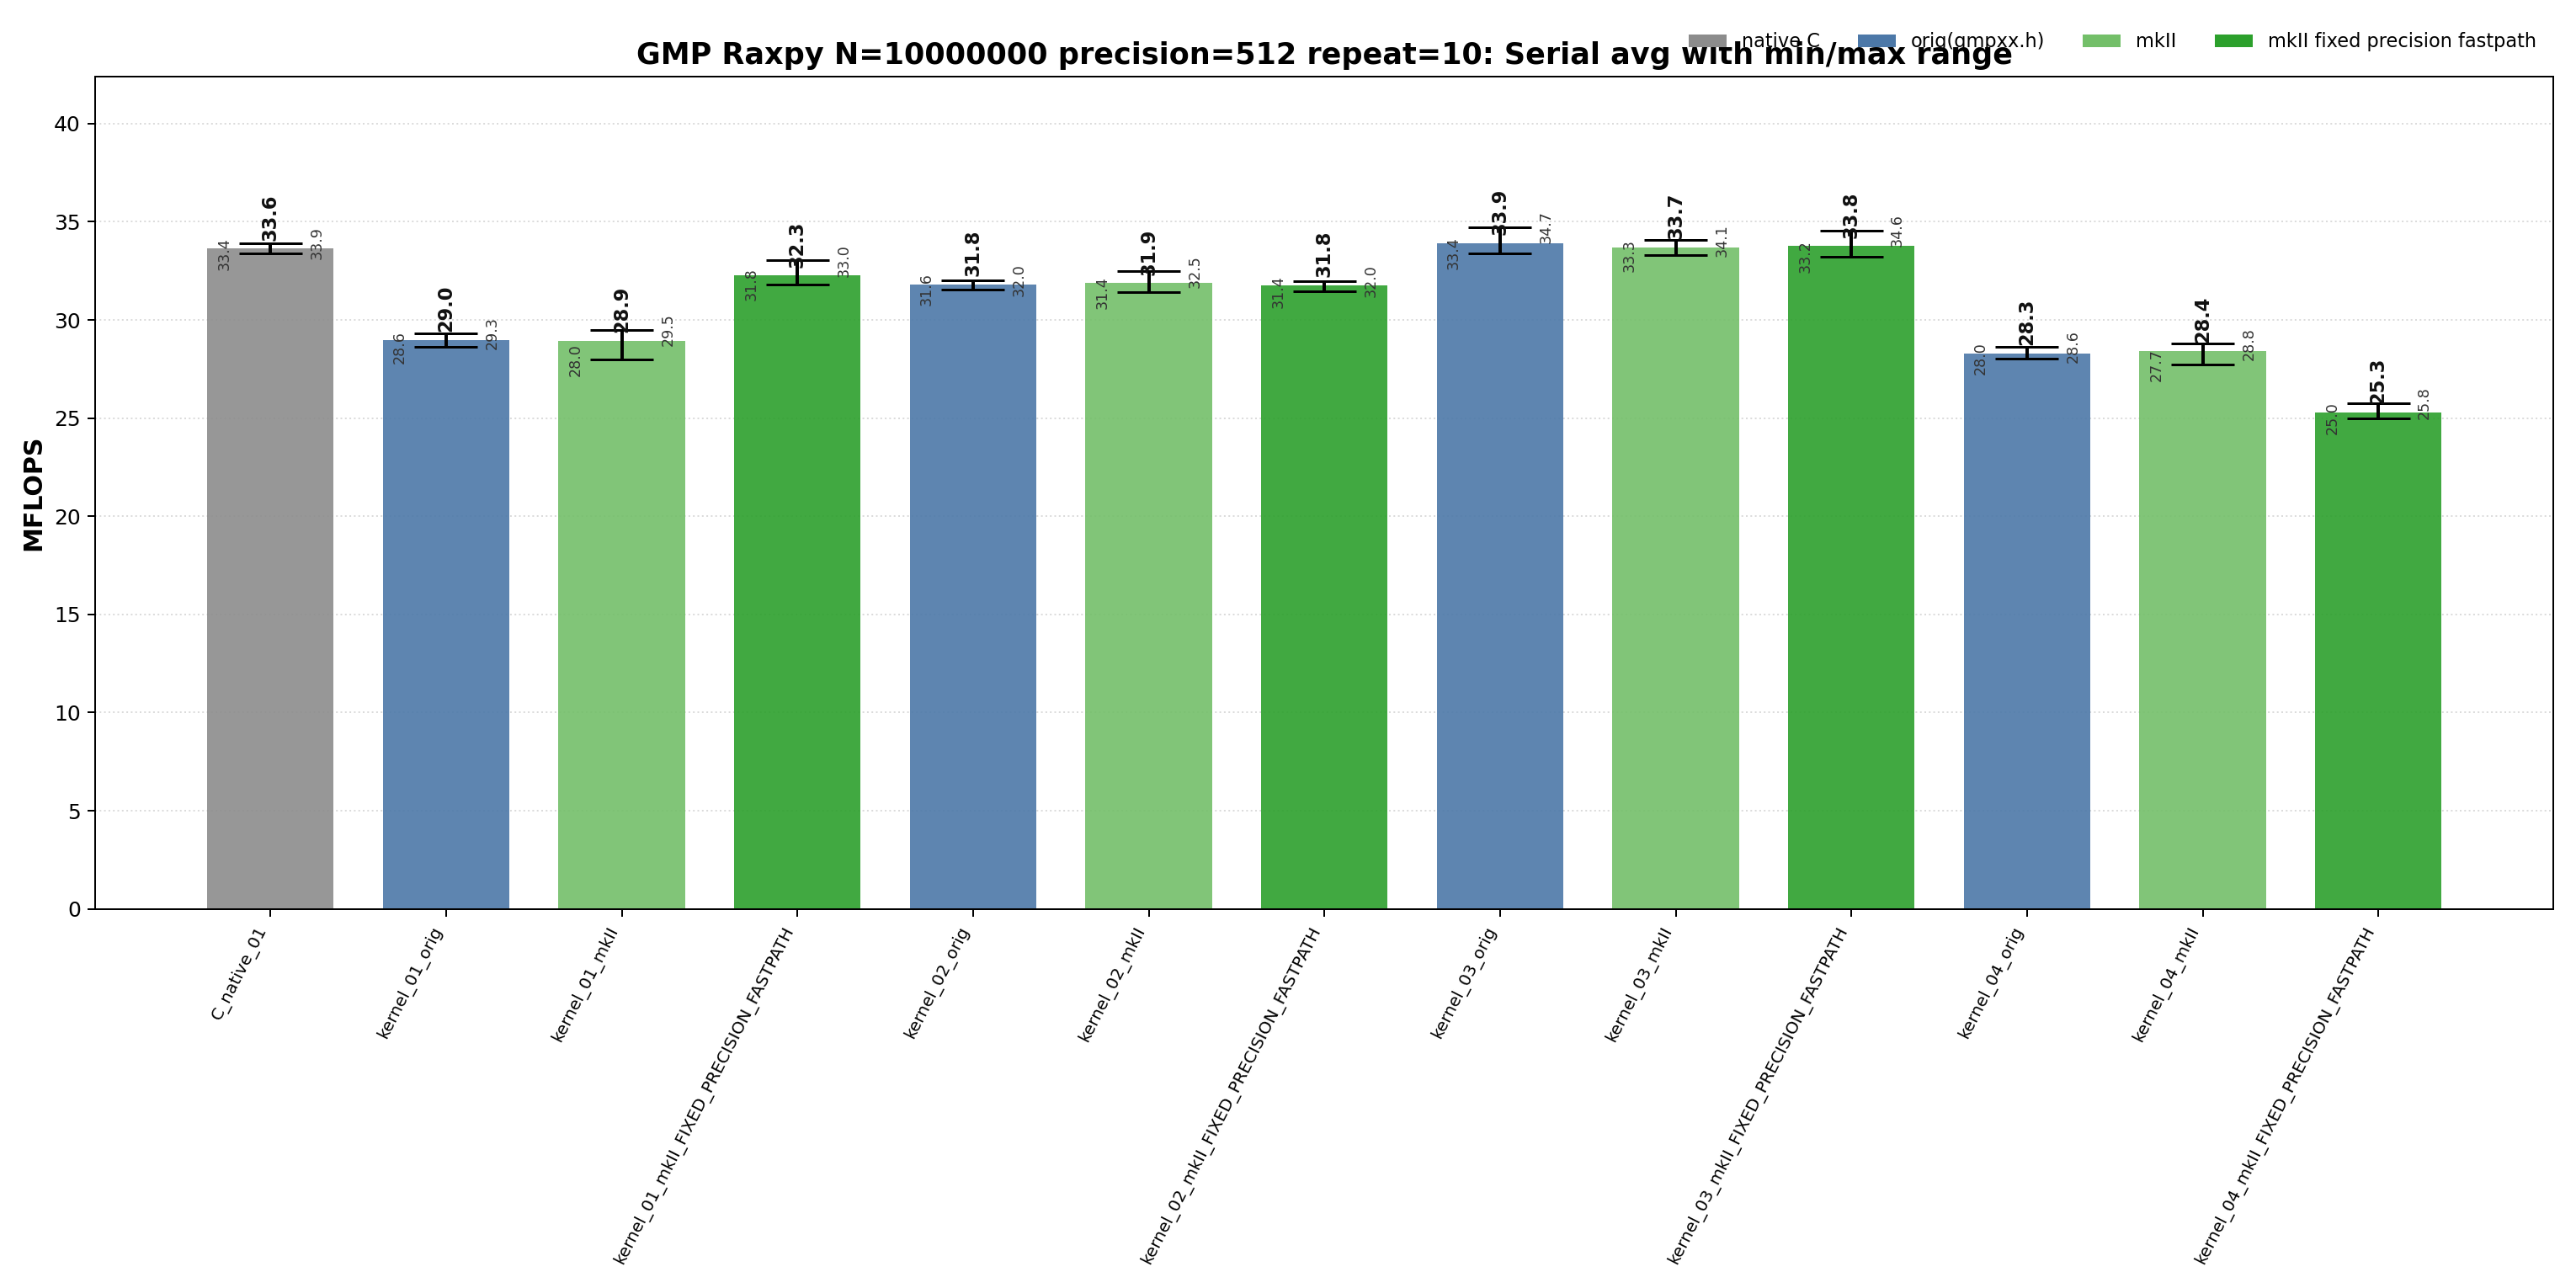
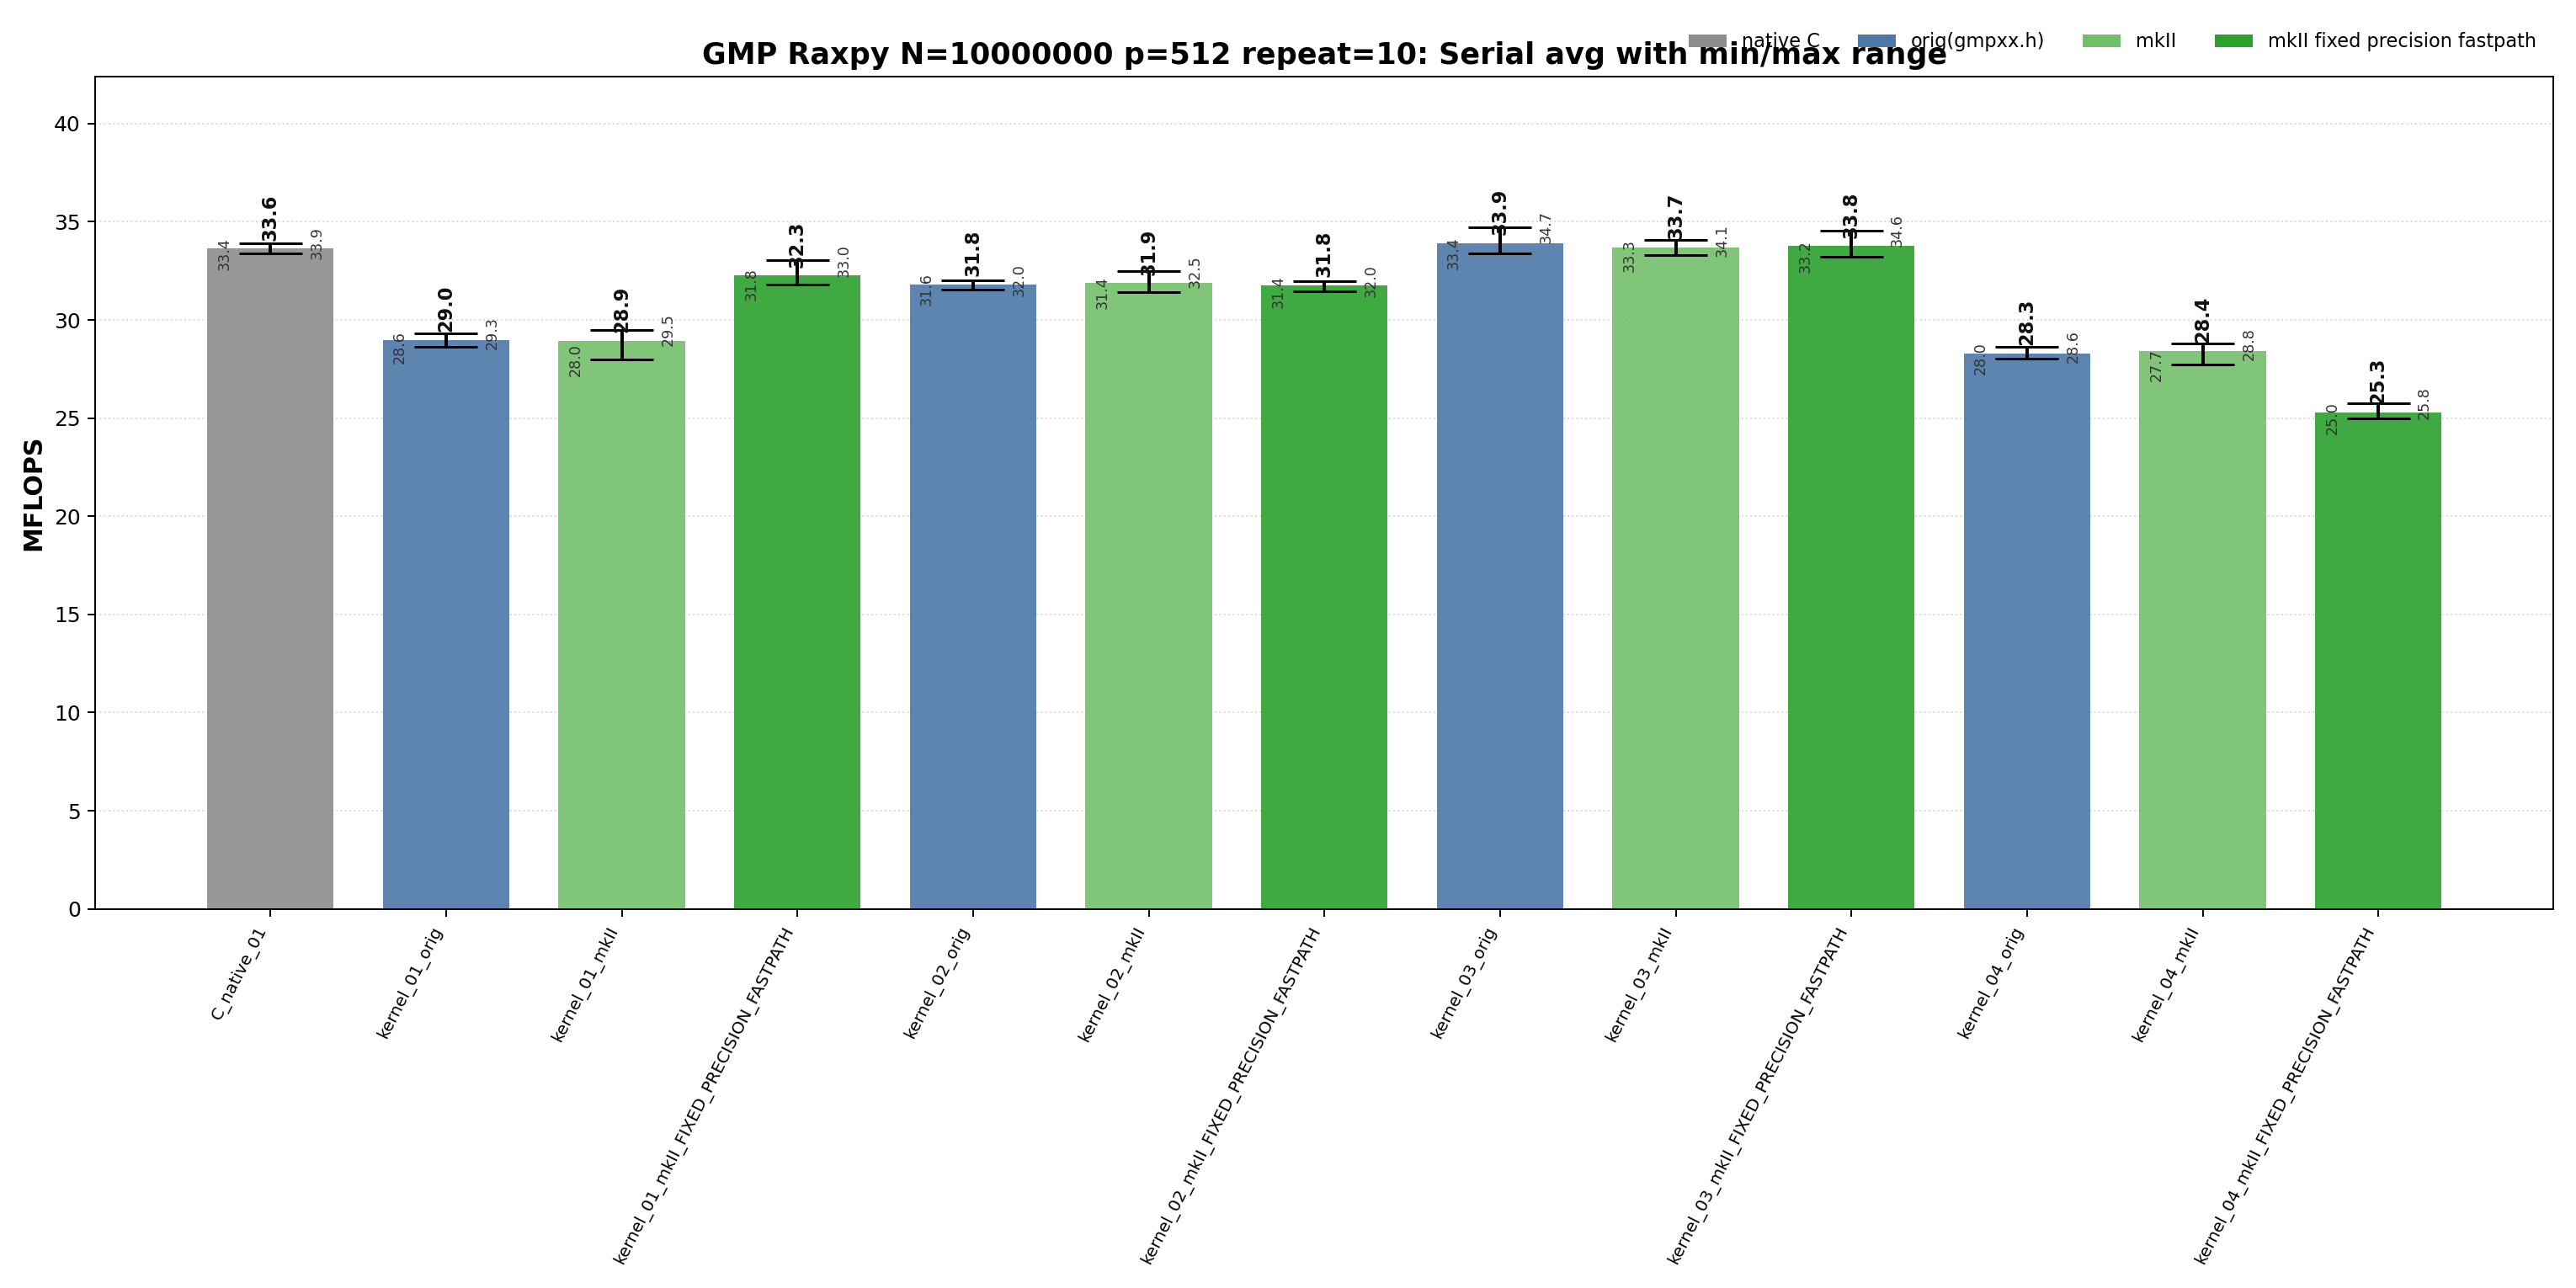
benchmarks: align GMP Raxpy run report
Rewrite the GMP Raxpy Recorded Run section to match the MPFR Raxpy report style with a compact run summary, raw-data links, plot descriptions, and the regeneration command.

Reshape the GMP Raxpy memory-bandwidth estimate section to use the MPFR-style assumptions block and representative-variant table. Regenerate the GMP Raxpy serial and OpenMP plots with the updated title prefix from the documented command.

Record the documentation-only phase in STATUS.md. The benchmark timings were not recollected.

Changed region(s): [[0.2484, 0.0307, 0.7761, 0.0614]]

diff --git a/benchmarks/gmp/01_Raxpy/README.md b/benchmarks/gmp/01_Raxpy/README.md
@@ -67,35 +67,40 @@ OMP_NUM_THREADS=32 OMP_PLACES=cores OMP_PROC_BIND=spread \
 
 ## Recorded Run
 
-| Field | Value |
-|-------|-------|
-| Run ID | `raxpy_gmp_n10000000_p512_repeat10_20260522_214039` |
-| Problem size | `N=10000000` |
-| Precision | `512` bits |
-| Repeat count | `10` |
-| Compiler | `g++ (Ubuntu 15.2.0-16ubuntu1) 15.2.0` |
-| Build type | `Release` |
-| CPU | `AMD Ryzen Threadripper 3970X 32-Core Processor` |
-| OS | `Linux 7c430536ccee 6.8.0-94-generic x86_64` |
-| OpenMP | `OMP_NUM_THREADS=32`, `OMP_PLACES=cores`, `OMP_PROC_BIND=spread` |
-| Raw directory | `benchmarks/gmp/01_Raxpy/results_raw/raxpy_gmp_n10000000_p512_repeat10_20260522_214039` |
-| Raw log | `benchmarks/gmp/01_Raxpy/results_raw/raxpy_gmp_n10000000_p512_repeat10_20260522_214039/benchmark_raxpy_gmp_n10000000_p512_repeat10.log` |
-| Raw CSV | `benchmarks/gmp/01_Raxpy/results_raw/raxpy_gmp_n10000000_p512_repeat10_20260522_214039/raw_raxpy_gmp_n10000000_p512_repeat10.csv` |
-| Summary CSV | `benchmarks/gmp/01_Raxpy/results_raw/raxpy_gmp_n10000000_p512_repeat10_20260522_214039/summary_raxpy_gmp_n10000000_p512_repeat10.csv` |
-| Correctness | All variants reported `Result OK` for all repeats. |
+```text
+N = 10000000
+precision = 512 bits
+repeat = 10
+compiler = g++ (Ubuntu 15.2.0-16ubuntu1) 15.2.0
+build type = Release
+CPU = AMD Ryzen Threadripper 3970X 32-Core Processor
+OS = Linux 6.8.0-94-generic x86_64
+OMP_NUM_THREADS = 32
+OMP_PLACES = cores
+OMP_PROC_BIND = spread
+all timed runs = Result OK
+```
 
-Plot regeneration:
+Raw data:
+
+- [Raw log](results_raw/raxpy_gmp_n10000000_p512_repeat10_20260522_214039/benchmark_raxpy_gmp_n10000000_p512_repeat10.log)
+- [Raw CSV](results_raw/raxpy_gmp_n10000000_p512_repeat10_20260522_214039/raw_raxpy_gmp_n10000000_p512_repeat10.csv)
+- [Summary CSV](results_raw/raxpy_gmp_n10000000_p512_repeat10_20260522_214039/summary_raxpy_gmp_n10000000_p512_repeat10.csv)
+
+Plots use average MFLOPS bars with min/max error bars over 10 repeats:
+
+![GMP Raxpy serial repeat-10](results_raw/raxpy_gmp_n10000000_p512_repeat10_20260522_214039/raxpy_gmp_n10000000_p512_repeat10_serial.png)
+
+![GMP Raxpy OpenMP repeat-10](results_raw/raxpy_gmp_n10000000_p512_repeat10_20260522_214039/raxpy_gmp_n10000000_p512_repeat10_openmp.png)
+
+Regenerate plots with:
 
 ```bash
 python3 benchmarks/gmp/01_Raxpy/plot_repeat_summary.py \
     benchmarks/gmp/01_Raxpy/results_raw/raxpy_gmp_n10000000_p512_repeat10_20260522_214039/summary_raxpy_gmp_n10000000_p512_repeat10.csv \
     --output-prefix benchmarks/gmp/01_Raxpy/results_raw/raxpy_gmp_n10000000_p512_repeat10_20260522_214039/raxpy_gmp_n10000000_p512_repeat10 \
-    --title-prefix "GMP Raxpy N=10000000 precision=512 repeat=10"
+    --title-prefix "GMP Raxpy N=10000000 p=512 repeat=10"
 ```
-
-![Serial GMP Raxpy repeat-10 MFLOPS](results_raw/raxpy_gmp_n10000000_p512_repeat10_20260522_214039/raxpy_gmp_n10000000_p512_repeat10_serial.png)
-
-![OpenMP GMP Raxpy repeat-10 MFLOPS](results_raw/raxpy_gmp_n10000000_p512_repeat10_20260522_214039/raxpy_gmp_n10000000_p512_repeat10_openmp.png)
 
 ## Headline Results
 
@@ -220,29 +225,28 @@ python3 benchmarks/gmp/01_Raxpy/plot_repeat_summary.py \
 
 ## Memory Bandwidth Estimates
 
-These are model estimates, not hardware-counter measurements. At 512-bit precision, this report assumes 8 used limbs per `mpf_t` value, 8 bytes per limb, and a 24-byte `mpf_t` header on this x86_64 build. The timed RAXPY loop reads `x`, reads and writes `y`, and keeps `alpha` hot.
-
-| Model | Bytes/element |
-|-------|---------------|
-| Limb-only active traffic | `x` limbs read 64 B + `y` limbs read 64 B + `y` limbs write 64 B = 192 B |
-| Header-inclusive active traffic | `x` header+limbs read 88 B + `y` header+limbs read 88 B + `y` header+limbs write 88 B = 264 B |
-| Timed active footprint | `x` + `y` headers and limbs: about 1.76 GB for `N=10000000`, excluding allocator metadata. |
-| Full check footprint | `x` + `y` + `yy`: about 2.64 GB, but `yy` is outside the timed RAXPY loop. |
-
-Conversion formula:
+These are model estimates, not hardware-counter measurements. For 512-bit GMP
+`mpf_t`, this report assumes an `mpf_t` header stride of 24 bytes and 8 limbs =
+64 limb bytes per value on this x86_64 build. The timed operation reads `x[i]`,
+reads `y[i]`, and writes `y[i]`; `alpha` is loop-invariant and excluded.
 
 ```text
-GB/s = MFLOPS * bytes_per_element / 2000
+limb-only bytes/element      = 64 x + 64 y read + 64 y write = 192 B
+header-inclusive bytes/elem  = 88 x + 88 y read + 88 y write = 264 B
+GB/s estimate                = Avg MFLOPS * bytes_per_element / 2000
 ```
 
-| Case | MFLOPS source | Bytes/element model | Estimated GB/s | Notes |
-|------|---------------|---------------------|----------------|-------|
-| Best serial average `kernel_03_orig` | 33.908 | Limb-only active traffic: 192 B/element | 3.26 | Model estimate, not hardware counters. |
-| Best serial average `kernel_03_orig` | 33.908 | Header-inclusive active traffic: 264 B/element | 4.48 | Model estimate, not hardware counters. |
-| Best OpenMP average `kernel_openmp_01_mkII_FIXED_PRECISION_FASTPATH` | 393.019 | Limb-only active traffic: 192 B/element | 37.73 | Model estimate, not hardware counters. |
-| Best OpenMP average `kernel_openmp_01_mkII_FIXED_PRECISION_FASTPATH` | 393.019 | Header-inclusive active traffic: 264 B/element | 51.88 | Model estimate, not hardware counters. |
-| Best OpenMP max `kernel_openmp_03_orig` | 396.989 | Limb-only active traffic: 192 B/element | 38.11 | Model estimate, not hardware counters. |
-| Best OpenMP max `kernel_openmp_03_orig` | 396.989 | Header-inclusive active traffic: 264 B/element | 52.40 | Model estimate, not hardware counters. |
+| Variant | Mode | Avg MFLOPS | Limb-only GB/s | Header-inclusive GB/s |
+|---------|------|-----------:|---------------:|----------------------:|
+| `C_native_01` | Serial | 33.634 | 3.23 | 4.44 |
+| `kernel_03_orig` | Serial | 33.908 | 3.26 | 4.48 |
+| `kernel_openmp_01_mkII_FIXED_PRECISION_FASTPATH` | OpenMP | 393.019 | 37.73 | 51.88 |
+| `kernel_openmp_03_orig` | OpenMP | 392.657 | 37.69 | 51.83 |
+
+The OpenMP best paths imply roughly 38 GB/s limb-only traffic and 52 GB/s
+header-inclusive active traffic under this simple model. This excludes GMP
+internal metadata, allocator effects, cache-line overfetch, and repeated
+initialization outside the timed loop.
 
 ## Hotpath Disassembly
 

diff --git a/STATUS.md b/STATUS.md
@@ -1,3 +1,41 @@
+Post-phase GMP Raxpy recorded-run style alignment:
+DONE
+
+Implemented features:
+- Reworked `benchmarks/gmp/01_Raxpy/README.md` Recorded Run to match the
+  MPFR Raxpy report style: text run summary, raw-data links, plot description,
+  plot images, and regeneration command.
+- Reworked the GMP Raxpy Memory Bandwidth Estimates section to match the MPFR
+  Raxpy structure: assumptions block, representative variant table, and concise
+  interpretation.
+- Regenerated the GMP Raxpy serial and OpenMP plots with the README command and
+  MPFR-style title prefix spelling.
+
+Tests added:
+- No library tests were added; this phase updates benchmark documentation and
+  regenerated plot images only.
+
+Tests updated:
+- `benchmarks/gmp/01_Raxpy/README.md`
+- `benchmarks/gmp/01_Raxpy/results_raw/raxpy_gmp_n10000000_p512_repeat10_20260522_214039/raxpy_gmp_n10000000_p512_repeat10_serial.png`
+- `benchmarks/gmp/01_Raxpy/results_raw/raxpy_gmp_n10000000_p512_repeat10_20260522_214039/raxpy_gmp_n10000000_p512_repeat10_openmp.png`
+- `STATUS.md`
+
+Exact commands run:
+- `python3 -c ...` to update the GMP Raxpy Recorded Run and Memory Bandwidth Estimates sections.
+- `python3 benchmarks/gmp/01_Raxpy/plot_repeat_summary.py benchmarks/gmp/01_Raxpy/results_raw/raxpy_gmp_n10000000_p512_repeat10_20260522_214039/summary_raxpy_gmp_n10000000_p512_repeat10.csv --output-prefix benchmarks/gmp/01_Raxpy/results_raw/raxpy_gmp_n10000000_p512_repeat10_20260522_214039/raxpy_gmp_n10000000_p512_repeat10 --title-prefix "GMP Raxpy N=10000000 p=512 repeat=10"`
+- `git diff --check`
+- `ctest --test-dir build --output-on-failure`
+
+Pass/fail result:
+- Plot regeneration: PASS.
+- `git diff --check`: PASS.
+- Full CTest: PASS, 178/178 tests passed.
+
+Known issues:
+- This phase did not recollect benchmark timings; it only reformatted the report
+  and regenerated plots from the existing committed summary CSV.
+
 Post-phase Raxpy README and plot style alignment:
 DONE
 